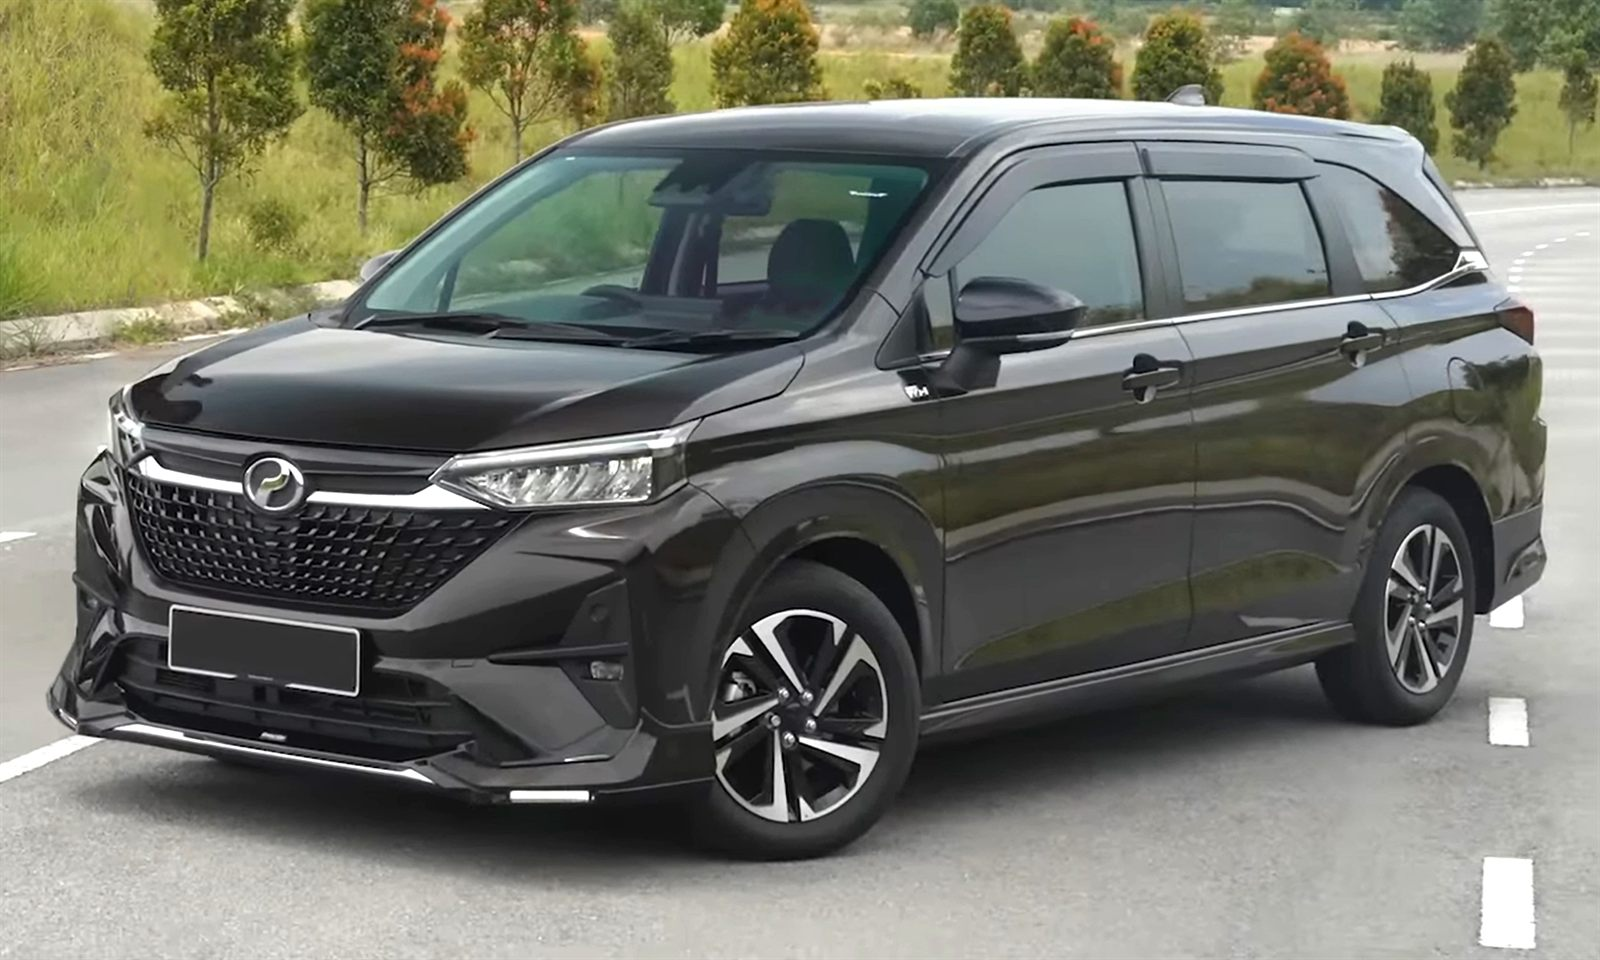
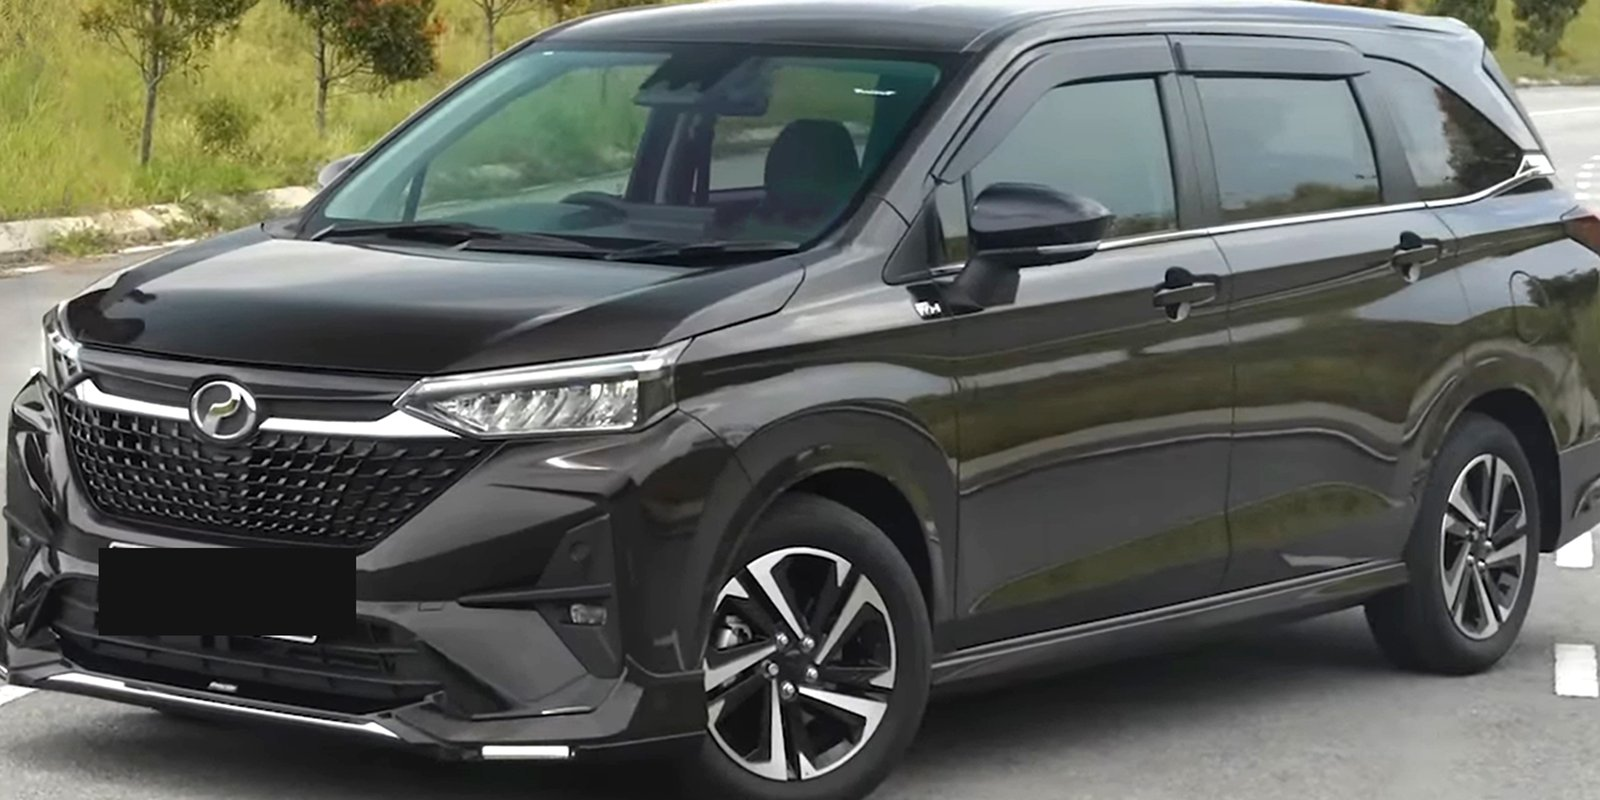
Fix the car photos, pin the fleet count, simplify the trust block
Photos, which were the real complaint. All three are re-cut from the
masters to a uniform 1600x800 letterbox centred on the car, so the brick
wall, the showroom posters and the roadside scrub mostly fall outside the
frame. Registration plates are now painted out in the pixels rather than
covered by a CSS box that had to be positioned by guesswork - the old
.plate-mask approach is gone.

On top of that the three get a shared grade, a two-axis mask-image edge
fade and a strong radial vignette, so they dissolve into the panel
instead of sitting on it as three mismatched rectangles. A soft vignette
was not enough for the Bezza, whose showroom background is bright; it
needed 0.92 and a tighter start to pull down to the panel.

Also:
- Fleet count is a fixed "100+" rather than counting up to the live
  figure, as asked.
- Company registration removed from the trust block, and the location now
  reads simply "Klang Valley". That left an empty fourth grid cell, so
  the grid is three columns, and the heading no longer claims "a real
  address" - it reads "Real people. Fast replies." in both languages.
- The deposit line was orphaning a word; it is a wrapping flex row now.

Verified at 360, 390, 768 and 1440: no overflow, no element past the
viewport, every touch target at least 44px.

diff --git a/index.html b/index.html
@@ -153,9 +153,8 @@
                     <a class="btn btn-ghost" href="#apply" data-i18n="fleet.reserve">Reserve this car</a>
                 </div>
             </div>
-            <div class="car-shot" data-mask="on" style="--mx:18.5%; --my:64.5%; --mw:17%; --mh:9%;" data-reveal data-reveal-delay="1">
-                <img src="img/saga.jpg" width="1600" height="944" alt="Proton Saga" loading="lazy" decoding="async">
-                <span class="plate-mask" aria-hidden="true"></span>
+            <div class="car-shot" data-reveal data-reveal-delay="1">
+                <img src="img/saga.jpg" width="1600" height="800" alt="Proton Saga" loading="lazy" decoding="async">
             </div>
         </div>
     </article>
@@ -179,7 +178,7 @@
                 </div>
             </div>
             <div class="car-shot" data-reveal data-reveal-delay="1">
-                <img src="img/bezza.jpg" width="1600" height="829" alt="Perodua Bezza" loading="lazy" decoding="async">
+                <img src="img/bezza.jpg" width="1600" height="800" alt="Perodua Bezza" loading="lazy" decoding="async">
             </div>
         </div>
     </article>
@@ -202,9 +201,8 @@
                     <a class="btn btn-ghost" href="#apply" data-i18n="fleet.reserve">Reserve this car</a>
                 </div>
             </div>
-            <div class="car-shot" data-mask="on" style="--mx:16.5%; --my:61%; --mw:15%; --mh:9.5%;" data-reveal data-reveal-delay="1">
-                <img src="img/alza.jpg" width="1600" height="960" alt="Perodua Alza" loading="lazy" decoding="async">
-            <span class="plate-mask" aria-hidden="true"></span>
+            <div class="car-shot" data-reveal data-reveal-delay="1">
+                <img src="img/alza.jpg" width="1600" height="800" alt="Perodua Alza" loading="lazy" decoding="async">
             </div>
         </div>
     </article>
@@ -214,7 +212,7 @@
         <div class="inner">
             <p class="eyebrow" data-i18n="stats.eyebrow" data-reveal>By the numbers</p>
             <div class="stats-grid" data-reveal>
-                <div class="stat"><span class="num" data-count="97">97</span><span class="label" data-i18n="stat.1">Cars in the fleet</span></div>
+                <div class="stat"><span class="num">100+</span><span class="label" data-i18n="stat.1">Cars in the fleet</span></div>
                 <div class="stat"><span class="num" data-count="0" data-prefix="RM">RM0</span><span class="label" data-i18n="stat.2">Insurance excess</span></div>
                 <div class="stat"><span class="num" data-count="0">0</span><span class="label" data-i18n="stat.3">Maintenance bills</span></div>
                 <div class="stat"><span class="num" data-count="24" data-suffix="h">24h</span><span class="label" data-i18n="stat.4">To approval</span></div>
@@ -336,15 +334,11 @@
     <section class="panel panel-dark" id="contact">
         <div class="inner">
             <p class="eyebrow" data-i18n="trust.eyebrow" data-reveal>Who we are</p>
-            <h2 class="section-title" data-i18n="trust.h2" data-reveal>A real company,<br>with a real address.</h2>
+            <h2 class="section-title" data-i18n="trust.h2" data-reveal>Real people.<br>Fast replies.</h2>
             <div class="trust-grid" data-reveal>
                 <div class="trust-cell">
-                    <span class="k" data-i18n="trust.ssm">Company registration</span>
-                    <span class="v"><span class="todo">SSM no. &mdash; owner to supply</span></span>
-                </div>
-                <div class="trust-cell">
                     <span class="k" data-i18n="trust.where">Where to find us</span>
-                    <span class="v"><span class="todo">Address &mdash; owner to supply</span></span>
+                    <span class="v">Klang Valley</span>
                 </div>
                 <div class="trust-cell">
                     <span class="k" data-i18n="trust.hours">Opening hours</span>

diff --git a/css/landing.css b/css/landing.css
@@ -299,8 +299,11 @@ body.landing section[id] { scroll-margin-top: 56px; }
     font-size: clamp(2.2rem, 6vw, 3.4rem); letter-spacing: -0.04em; color: var(--accent);
 }
 .car-price .per { font-size: 15px; color: var(--fg-muted); }
-.car-sub { font-size: 15px; color: var(--fg-muted); margin: 0 0 26px; }
-.car-sub .sep { opacity: .4; margin: 0 8px; }
+.car-sub {
+    font-size: 15px; color: var(--fg-muted); margin: 0 0 26px;
+    display: flex; flex-wrap: wrap; align-items: baseline; gap: 4px 10px;
+}
+.car-sub .sep { opacity: .4; }
 
 .spec-strip {
     display: flex; flex-wrap: wrap; gap: 0;
@@ -314,20 +317,32 @@ body.landing section[id] { scroll-margin-top: 56px; }
 
 .car-ctas { display: flex; flex-wrap: wrap; gap: 12px; }
 
+/* The three source photos were shot in three different places under three
+   different lights. A shared grade plus edges that dissolve into the panel
+   is what makes them read as one set rather than three snapshots. Number
+   plates are blanked in the pixels, not here. */
 .car-shot { position: relative; }
 .car-shot img {
     display: block; width: 100%; height: auto;
-    aspect-ratio: 16 / 10; object-fit: cover;
-    filter: grayscale(.25) contrast(1.06);
+    aspect-ratio: 2 / 1; object-fit: cover;
+    filter: grayscale(.45) contrast(1.12) brightness(.94);
+    -webkit-mask-image:
+        linear-gradient(to right,  transparent 0, #000 20%, #000 80%, transparent 100%),
+        linear-gradient(to bottom, transparent 0, #000 18%, #000 78%, transparent 100%);
+    mask-image:
+        linear-gradient(to right,  transparent 0, #000 20%, #000 80%, transparent 100%),
+        linear-gradient(to bottom, transparent 0, #000 18%, #000 78%, transparent 100%);
+    -webkit-mask-composite: source-in;
+    mask-composite: intersect;
 }
-/* Masks the number plate region until the owner's own photos land. */
-.car-shot .plate-mask {
-    position: absolute; background: var(--bg);
-    left: var(--mx, 50%); top: var(--my, 78%);
-    width: var(--mw, 14%); height: var(--mh, 7%);
-    transform: translateX(-50%); display: none;
+/* Vignette, so the eye lands on the car and not on the parking lot. */
+.car-shot::after {
+    content: ""; position: absolute; inset: 0; pointer-events: none;
+    background: radial-gradient(ellipse 74% 68% at 50% 46%, transparent 28%, rgba(10,10,10,.92) 100%);
 }
-.car-shot[data-mask="on"] .plate-mask { display: block; }
+.car-panel:nth-child(even) .car-shot::after {
+    background: radial-gradient(ellipse 74% 68% at 50% 46%, transparent 28%, rgba(20,20,20,.92) 100%);
+}
 
 /* ---------- stats band ---------- */
 .stats-grid {
@@ -389,7 +404,7 @@ body.landing section[id] { scroll-margin-top: 56px; }
 .faq summary:focus-visible { outline: 2px solid var(--accent); outline-offset: 3px; }
 
 /* ---------- trust block ---------- */
-.trust-grid { display: grid; grid-template-columns: repeat(4, 1fr); gap: 0; border: var(--border-w) solid var(--line); border-right: none; }
+.trust-grid { display: grid; grid-template-columns: repeat(3, 1fr); gap: 0; border: var(--border-w) solid var(--line); border-right: none; }
 .trust-cell { border-right: var(--border-w) solid var(--line); padding: 26px 22px; }
 .trust-cell .k {
     font-size: 11px; font-weight: 700; letter-spacing: .16em;
@@ -486,8 +501,7 @@ body.landing { padding-bottom: 64px; }
     .steps { grid-template-columns: repeat(2, 1fr); }
     .step:nth-child(2) { border-right: none; }
     .step:nth-child(-n+2) { border-bottom: 1px solid var(--line-light); }
-    .trust-grid { grid-template-columns: repeat(2, 1fr); }
-    .trust-cell:nth-child(-n+2) { border-bottom: var(--border-w) solid var(--line); }
+    .trust-grid { grid-template-columns: repeat(3, 1fr); }
     .stats-grid { grid-template-columns: repeat(2, 1fr); }
     .stat:nth-child(-n+2) { border-bottom: var(--border-w) solid var(--line); }
 }

diff --git a/js/i18n.js b/js/i18n.js
@@ -62,7 +62,7 @@ window.GB_I18N = {
         'faq.h2': 'Straight answers.',
 
         'trust.eyebrow': 'Who we are',
-        'trust.h2': 'A real company,<br>with a real address.',
+        'trust.h2': 'Real people.<br>Fast replies.',
         'trust.ssm': 'Company registration',
         'trust.where': 'Where to find us',
         'trust.hours': 'Opening hours',
@@ -199,7 +199,7 @@ window.GB_I18N = {
         'faq.h2': 'Jawapan terus.',
 
         'trust.eyebrow': 'Siapa kami',
-        'trust.h2': 'Syarikat sebenar,<br>dengan alamat sebenar.',
+        'trust.h2': 'Orang sebenar.<br>Balasan pantas.',
         'trust.ssm': 'Pendaftaran syarikat',
         'trust.where': 'Di mana kami',
         'trust.hours': 'Waktu operasi',

diff --git a/.claude/skills/gb-brand/SKILL.md b/.claude/skills/gb-brand/SKILL.md
@@ -56,7 +56,9 @@ never as a large background wash except the one calculator panel.
 ## 3. Claims policy
 
 **Verified by the owner, safe to state prominently:**
-- 100+ cars (the table says 97 — prefer the exact number, it is more credible)
+- 100+ cars. **Stated as a fixed "100+", not a live count.** The table read 97
+  on 2026-09-25; the owner asked for the rounded claim, so the stats band is
+  hardcoded and must not be wired back to the database.
 - Comprehensive insurance with **zero excess**
 - **PSV licence paid for by GB** (not "arranged", not "assisted")
 - Servicing, tyres, brake pads, battery, wipers, bulbs, road tax, PUSPAKOM, EVP
@@ -71,11 +73,16 @@ never as a large background wash except the one calculator panel.
   no public Grab Malaysia partner list exists to verify against. Use checkable
   facts instead: PSV arranged, active EVP, e-hailing insurance, PUSPAKOM handled.
 - Fleet-age claims — the owner chose not to publish these.
+- **Company registration / SSM number** — the owner asked for this to be off
+  the page. Do not reinstate it.
+- A street address. The location line says **"Klang Valley"** and nothing more,
+  so the section heading must not promise "a real address" (it reads
+  "Real people. Fast replies.").
 - Live availability counts — currently zero cars are free; use
   "new cars arriving monthly" instead.
 
 **Still unsupplied** (rendered as visible `.todo` badges in `index.html`):
-deposit per car, SSM number, address, opening hours, minimum contract period,
+deposit per car, opening hours, minimum contract period,
 WhatsApp reply time, testimonials, and the accident / breakdown / mileage /
 early-termination policies. The real contract is a per-driver PDF in a private
 Supabase bucket, not in this repo. **Do not invent these answers.**
@@ -116,8 +123,16 @@ GB's Saga undercuts VisionCar by RM100/week. Lead with it.
 The three files in `img/` are **borrowed, not GB's**, and must be replaced:
 `saga.jpg` is a stranger's car with plate VV 7935 legible; `bezza.jpg` is a
 Perodua motor-show press photo; `alza.jpg` looks like a video frame with the
-plate crudely whited out. `index.html` masks the visible plates with
-`.plate-mask` as a stopgap only.
+plate crudely whited out. As of 2026-09-25 the shipped files are **pre-processed**: each is cropped to a
+uniform **1600x800 (2:1)** letterbox centred on the car, and the registration
+plate is **painted out in the pixels** with a #141414 rectangle. The old CSS
+`.plate-mask` approach is gone. Re-run the PowerShell crop from
+`img/original/` if the framing needs changing; do not re-add CSS masks.
+
+The CSS then applies a shared grade (`grayscale(.45) contrast(1.12)`), a
+two-axis `mask-image` edge fade and a strong radial vignette, which is what
+makes three photos shot in three different places read as one set. A weak
+vignette is not enough for the Bezza, whose showroom background is bright.
 
 **Shot brief for replacements:** underground car park at night or an empty
 industrial road at golden hour. Mark **one** ground position and shoot every
